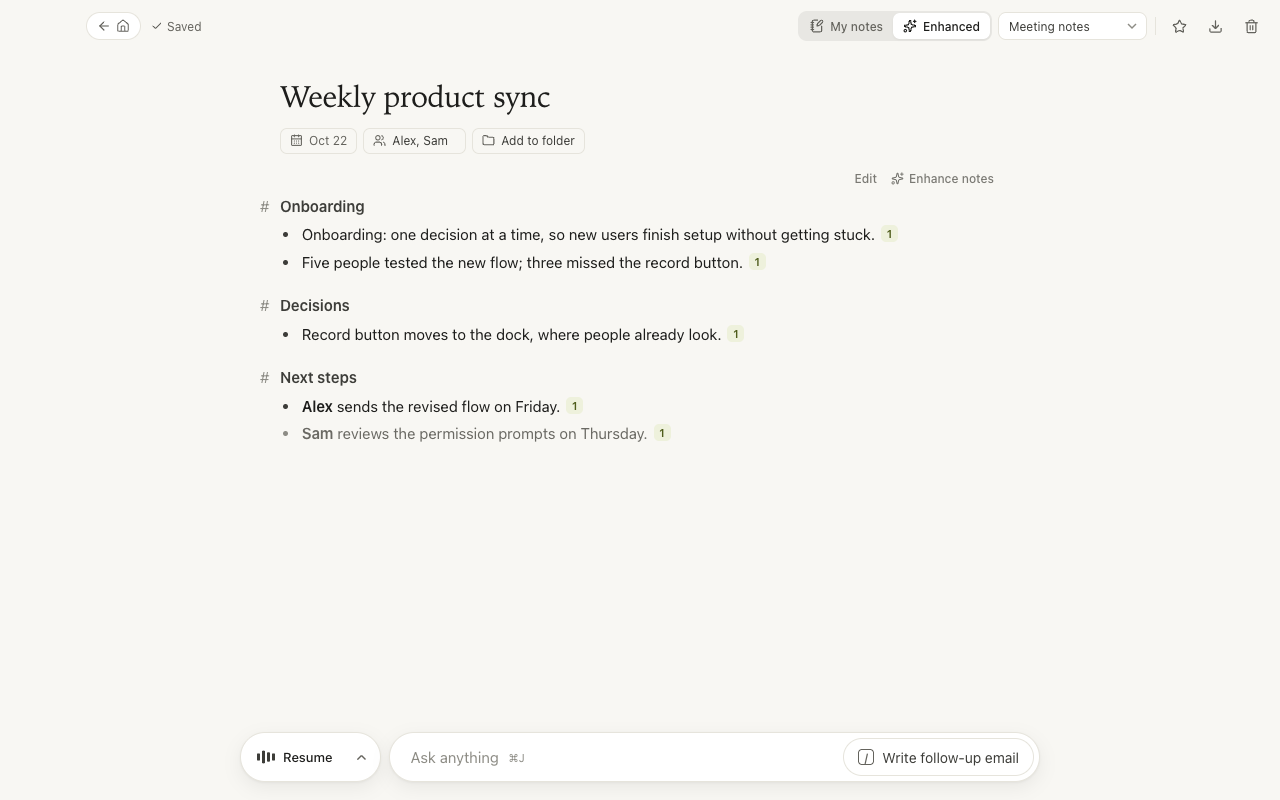
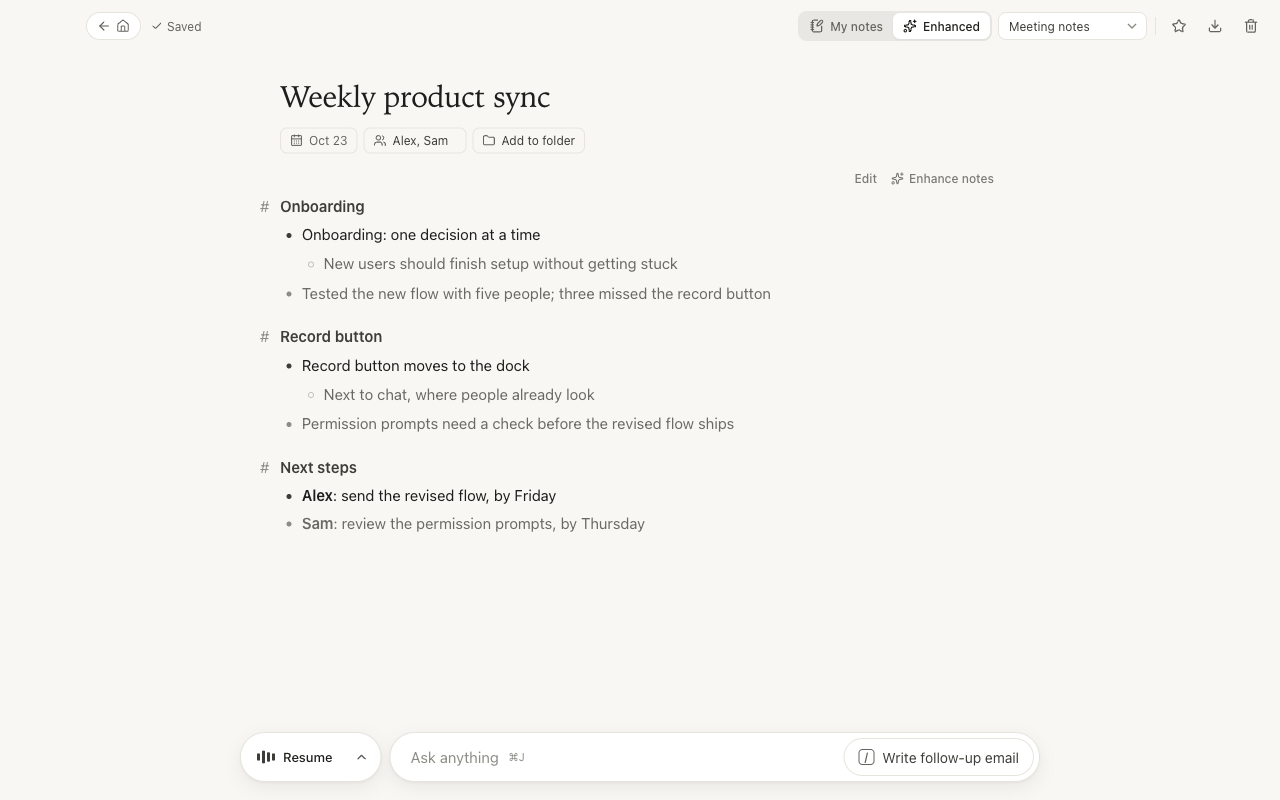
feat(ai): write enhanced notes the way Granola does
Granola keeps its prompts server-side, so this follows its documented
behavior: rough notes are the skeleton, the transcript fills in details,
and the user's own words stay dark while additions are lighter.

- app/enhance.mjs owns the enhance instructions and request. Each rough
  note line stays a bullet close to the user's wording, with transcript
  details nested under it; missed topics go under short topic headings;
  next steps carry only stated owners and dates. The rules explain what
  "You" and "Meeting audio" mean (including echo and in-person rooms),
  skip small talk, scale with the meeting, and write every heading and
  label in the notes' language. No per-line [1] citations: with one
  meeting they all pointed to the same place.
- The request now includes participants and length, sends the
  transcript as compact "[mm:ss] Speaker: text" lines in fenced blocks
  that meeting text cannot close, and no longer feeds the previous
  enhanced version back to the model.
- Built-in templates state purpose and sections, as Granola's template
  guide suggests.
- Details nested under the user's own bullet were inheriting its dark
  color; they now keep the AI color (E2E checks the computed colors).

Compared live on fictional English and Chinese meetings, output was about
half as long, kept the user's points, and named owners only as stated.

Changed region(s): [[0.2188, 0.2812, 0.6875, 0.6562], [0.375, 0.1562, 0.4375, 0.1875], [0.3125, 0.1562, 0.3438, 0.1875]]

diff --git a/app/style.css b/app/style.css
@@ -1176,6 +1176,10 @@ kbd {
 .prose.enhanced .own {
   color: var(--ink);
 }
+/* Details nested under one of my own bullets are still the model's additions. */
+.prose.enhanced .own li:not(.own) {
+  color: var(--ai-text);
+}
 .prose.enhanced li.own::marker {
   color: var(--ink-2);
 }

diff --git a/docs/ARCHITECTURE.md b/docs/ARCHITECTURE.md
@@ -75,6 +75,7 @@ The renderer does not have Node.js access, raw filesystem access, credentials, o
 | Application UI | `app/ui.jsx` | Screen state, draft autosave, editor tabs, capture controls, chat scope/history, settings, and reversible actions. |
 | Home feed | `app/components/HomeFeed.jsx` | Upcoming events, chronological meeting rows, search results, and honest empty states. |
 | Content components | `app/components/Content.jsx` | Accessible icon buttons and safe Markdown with clickable meeting citations. |
+| Enhance prompt | `app/enhance.mjs` | Granola-style writing rules and the enhance request: template, meeting facts, rough notes and a timed transcript in fenced blocks. Pure. |
 | Local store | `app/store.mjs` | SQLite transactions, FTS indexing, meeting revisions, folders, message history, backup validation/restore, and bounded AI context construction. |
 | Subscription authentication | `app/auth.mjs` | PKCE/OIDC sign-in, profile separation, model discovery, protected token storage, refresh, revocation, and public Responses requests. |
 | Streaming parser | `app/stream.mjs` | Decodes fragmented SSE events and accepts a result only after `response.completed`. |
@@ -194,7 +195,7 @@ Anthropic does not permit third-party apps to offer Claude.ai sign-in or to coll
 
 A meeting stores separate `notes`, `summary`, `transcript`, and `versions` fields. Enhancing never overwrites the user's rough notes. AI enhancement, explicit `snapshotSummary: true` replacements, and the first manual edit of an AI summary snapshot the previous summary, capped at 20 versions. Plain autosaves do not create versions. `summarySource` tracks `ai` or `edited`; `summaryAt` preserves the summary's own timestamp independently of other meeting edits. Legacy nonempty summaries without provenance get one protective snapshot on their first edit, using the old meeting timestamp as the fallback. `snapshotSummary` is a command flag and is never persisted. Transcript segments can be corrected, renamed, or deleted; their search index is updated transactionally.
 
-For enhancement, the app supplies the selected meeting, its rough notes, full transcript, and chosen template. For chat, it supplies the chosen meeting/folder/notebook and up to 12 recent messages from that scope, bounded to 60,000 characters after expanding historical citation identities. Whole older messages are omitted when the history budget is exhausted. Prompts request decisions, commitments, and owners only when evidence supports them.
+For enhancement, `app/enhance.mjs` sends the chosen template, then the meeting's title, date, participants and length, its rough notes and its full transcript as `[mm:ss] Speaker: text` lines, each in its own fenced block that meeting text cannot close. A previous enhanced version is never sent back, so regenerating starts fresh from the sources. The instructions follow Granola's approach: rough notes are the skeleton and each line stays a bullet close to the user's wording (so `own-lines.mjs` can keep it dark), transcript details nest under it, missed topics are added in conversation order under short topic headings, and a next-steps section lists only stated owners and dates. They explain what the `You` and `Meeting audio` labels can and cannot say about speakers, skip small talk, scale length with the meeting, write in the notes' language, and ask for no citations, since a single meeting would make every citation the same. For chat, it supplies the chosen meeting/folder/notebook and up to 12 recent messages from that scope, bounded to 60,000 characters after expanding historical citation identities. Whole older messages are omitted when the history budget is exhausted. Prompts request decisions, commitments, and owners only when evidence supports them.
 
 Context is bounded at 350,000 source characters, including serialized source headers. Enhancement and meeting chat retain the full selected source or fail with an error naming the oversized meeting. Folder/notebook chat ranks candidates by the store's FTS results for the question, then creation recency. It reserves space for summaries and rough notes first, then adds whole transcripts in rank order when they fit. A source without notes or a summary needs its whole transcript to fit. Omitted transcripts are explicitly marked `transcriptOmitted`; they are never silently cut. Oversized meetings are skipped so smaller sources can still fit. The developer message states the number of omitted meetings, and chat returns `context: { included, total }` for the UI. Citation numbers refer only to the included sources. Search IPC retains its existing meeting-array shape; no `search-ids` channel is added. This uses explicit context and FTS, not an embeddings service.
 

diff --git a/docs/DESIGN.md b/docs/DESIGN.md
@@ -48,7 +48,7 @@ All colors, type sizes and radii are CSS custom properties in `app/style.css`, w
 3. Missing permissions or on-device language → visible recovery guidance. There is no silent cloud fallback.
 4. Sparse transcript → one dismissible line under the title, with Listen and Retry.
 5. No AI connected → an inline card with the shortest path: Use Claude (when Claude Code is signed in), Sign in to Claude, or Sign in with ChatGPT.
-6. Enhanced note → citation opens the transcript sheet → edit, regenerate, or restore an earlier version.
+6. Enhanced note → own points in dark text, transcript additions lighter → transcript sheet from the dock → edit, regenerate, or restore an earlier version.
 7. Chat → explicit scope and model → streamed answer → persisted message with source chips.
 8. Quota, network failure or cancellation → visible recovery message. Notes and the previous summary stay intact.
 
